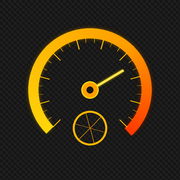
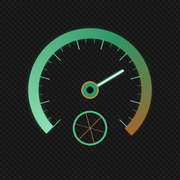
Add files via upload

Changed region(s): [[0.1389, 0.1389, 0.8611, 0.75], [0.3889, 0.6111, 0.6111, 0.8333], [0.4444, 0.3611, 0.6944, 0.5556]]

diff --git a/index.html b/index.html
@@ -14,7 +14,7 @@
 <meta name="apple-mobile-web-app-title" content="Vélo">
 <link rel="stylesheet" href="https://fonts.googleapis.com/css2?family=Orbitron:wght@500;700;900&display=swap">
 <style>
-:root{--fg:#ffb800;--hi:#ffd60a;--or:#ff7a00;--mut:#b98a2c;--line:rgba(255,184,0,.35);
+:root{--fg:#4fb883;--hi:#8fe0b2;--or:#c98a4b;--mut:#7d9a8a;--line:rgba(79,184,131,.35);
 box-sizing:border-box;padding-top:env(safe-area-inset-top,0px);padding-bottom:env(safe-area-inset-bottom,0px);color-scheme:dark}
 html{scroll-padding-top:env(safe-area-inset-top,0px);background:#131313}
 *{box-sizing:border-box}
@@ -24,21 +24,21 @@ background-image:linear-gradient(27deg,#151515 5px,transparent 5px),linear-gradi
 background-position:0 5px,10px 0,0 10px,10px 5px,0 0,0 0;background-attachment:fixed}
 h1{font-size:.85rem;margin:0;color:var(--hi);font-weight:700;letter-spacing:.15em;display:flex;justify-content:space-between;align-items:center;text-transform:uppercase}
 #gps{font-size:.65rem;color:var(--mut);letter-spacing:.05em}
-.hero,.card{background:linear-gradient(160deg,rgba(0,0,0,.78),rgba(10,10,10,.92));border:1px solid var(--line);border-radius:18px;box-shadow:inset 0 0 18px rgba(255,140,0,.08),0 6px 20px rgba(0,0,0,.6)}
-.hero{padding:22px 16px 16px;text-align:center;border-color:rgba(255,184,0,.6)}
-.hero .v{font-size:5.4rem;font-weight:900;line-height:1;font-variant-numeric:tabular-nums;color:var(--hi);text-shadow:0 0 18px rgba(255,190,0,.55)}
+.hero,.card{background:radial-gradient(120% 90% at 100% 0%,rgba(160,104,47,.16),transparent 55%),linear-gradient(160deg,rgba(0,0,0,.78),rgba(8,12,10,.92));border:1px solid var(--line);border-radius:18px;box-shadow:inset 0 0 18px rgba(60,190,120,.08),0 6px 20px rgba(0,0,0,.6)}
+.hero{padding:22px 16px 16px;text-align:center;border-color:rgba(95,200,150,.6)}
+.hero .v{font-size:5.4rem;font-weight:900;line-height:1;font-variant-numeric:tabular-nums;color:var(--hi);text-shadow:0 0 18px rgba(80,210,140,.45)}
 .bar{height:10px;border-radius:6px;margin-top:14px;background:#1a1a1a;border:1px solid var(--line);overflow:hidden}
-.bar i{display:block;height:100%;width:0;background:linear-gradient(90deg,#ffd60a,#ff9d00 65%,#ff3b00);box-shadow:0 0 10px var(--or);transition:width .4s}
+.bar i{display:block;height:100%;width:0;background:linear-gradient(90deg,#8fe0b2,#2f9664 60%,#a0682f);box-shadow:0 0 10px var(--or);transition:width .4s}
 .lbl{font-size:.6rem;color:var(--mut);text-transform:uppercase;letter-spacing:.14em;margin-top:8px}
 .grid{display:grid;grid-template-columns:1fr 1fr;gap:12px}
 .card{padding:14px 10px;text-align:center}
-.card .v{font-size:1.7rem;font-weight:700;font-variant-numeric:tabular-nums;color:var(--fg);text-shadow:0 0 10px rgba(255,150,0,.4)}
+.card .v{font-size:1.7rem;font-weight:700;font-variant-numeric:tabular-nums;color:var(--fg);text-shadow:0 0 10px rgba(70,190,120,.35)}
 .card small{font-size:.6rem;color:var(--or)}
 .btns{display:grid;grid-template-columns:2fr 1fr;gap:12px;margin-top:4px}
 button{font:inherit;font-weight:700;font-size:.95rem;letter-spacing:.1em;text-transform:uppercase;border-radius:14px;padding:18px;cursor:pointer}
-#go{background:linear-gradient(180deg,#ffd60a,#ff9d00);color:#111;border:0;box-shadow:0 0 16px rgba(255,170,0,.45)}
-#go.on{background:linear-gradient(180deg,#ff9d00,#ff5a00)}
-#rst{background:rgba(0,0,0,.7);color:#ff4d2e;border:1px solid #ff4d2e}
+#go{background:linear-gradient(180deg,#5cc995,#1f6f4b);color:#04130b;border:0;box-shadow:0 0 16px rgba(60,190,120,.4)}
+#go.on{background:linear-gradient(180deg,#c98a4b,#7d4f24);color:#fff}
+#rst{background:rgba(0,0,0,.7);color:#d98a55;border:1px solid #d98a55}
 #gpsBtn{display:block;background:rgba(0,0,0,.75);color:var(--hi);border:1px solid var(--hi);padding:14px;font-size:.8rem}
 #msg{font-size:.65rem;color:var(--mut);text-align:center;min-height:1em;letter-spacing:.05em}
 </style>

diff --git a/sw.js b/sw.js
@@ -1,6 +1,6 @@
 // Service worker : fonctionnement hors-ligne de l'application
 // Incrémentez CACHE à chaque modification des fichiers pour forcer la mise à jour.
-const CACHE = 'bike-speedometer-v2';
+const CACHE = 'bike-speedometer-v3';
 const SHELL = [
   './',
   './index.html',
